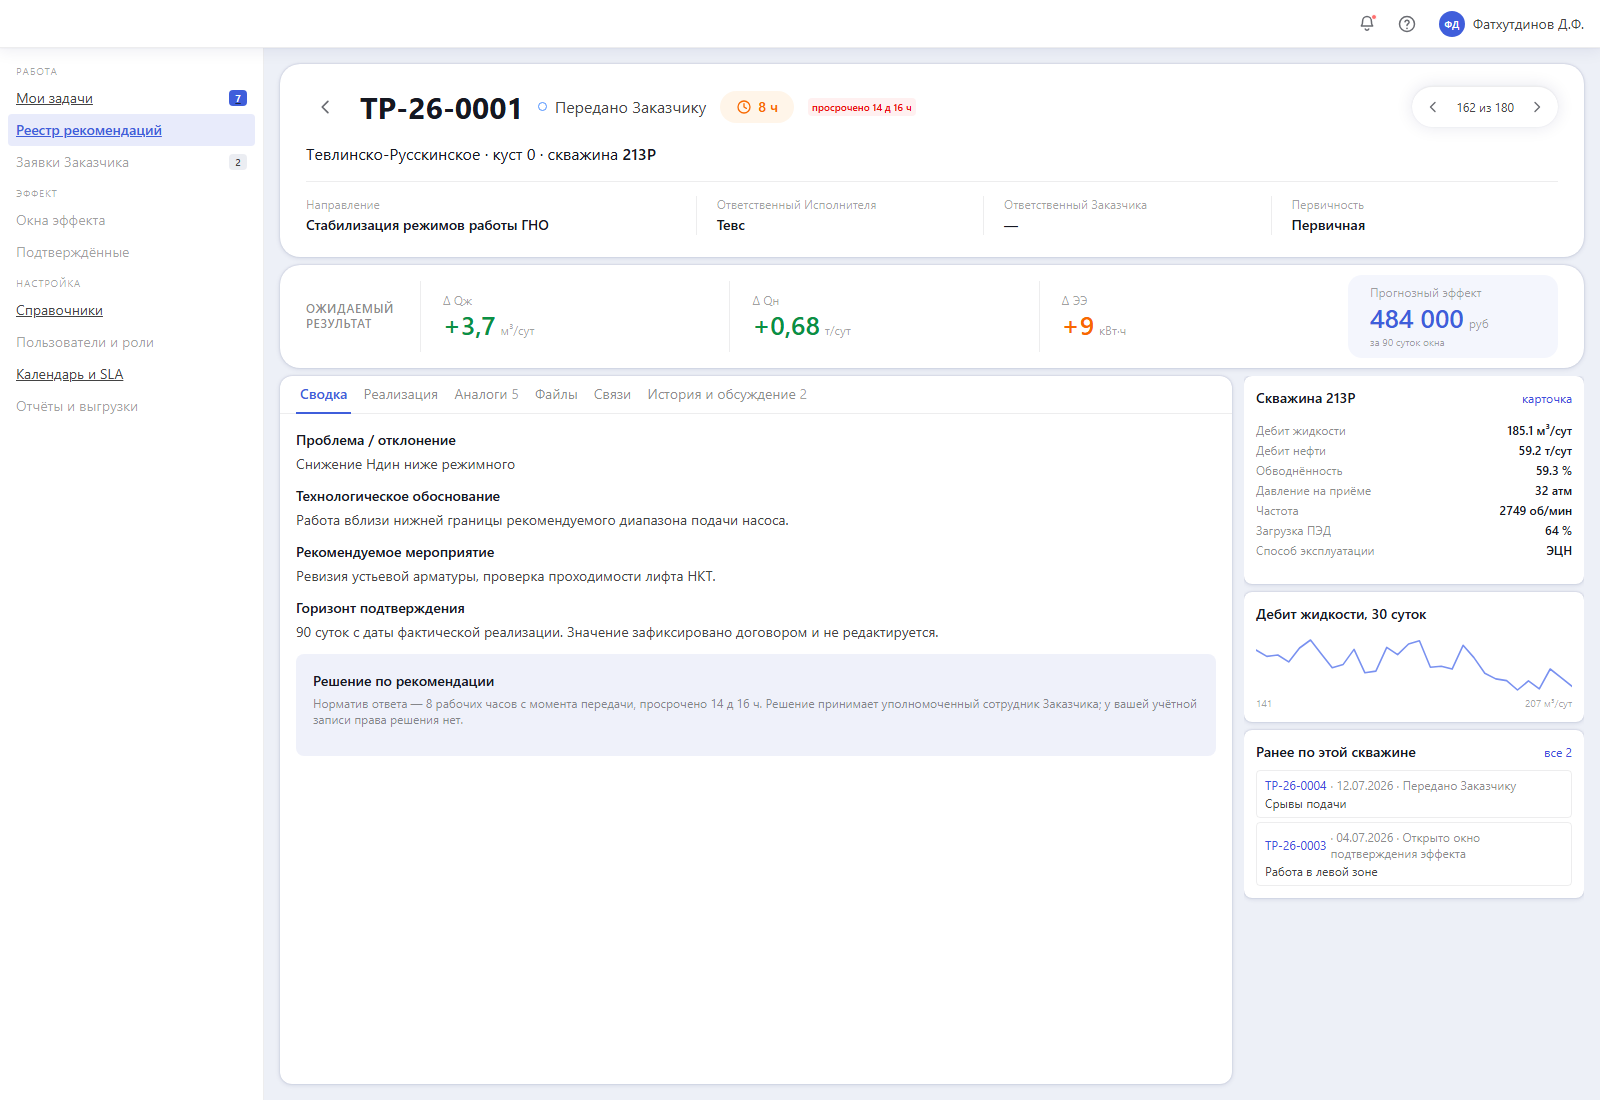
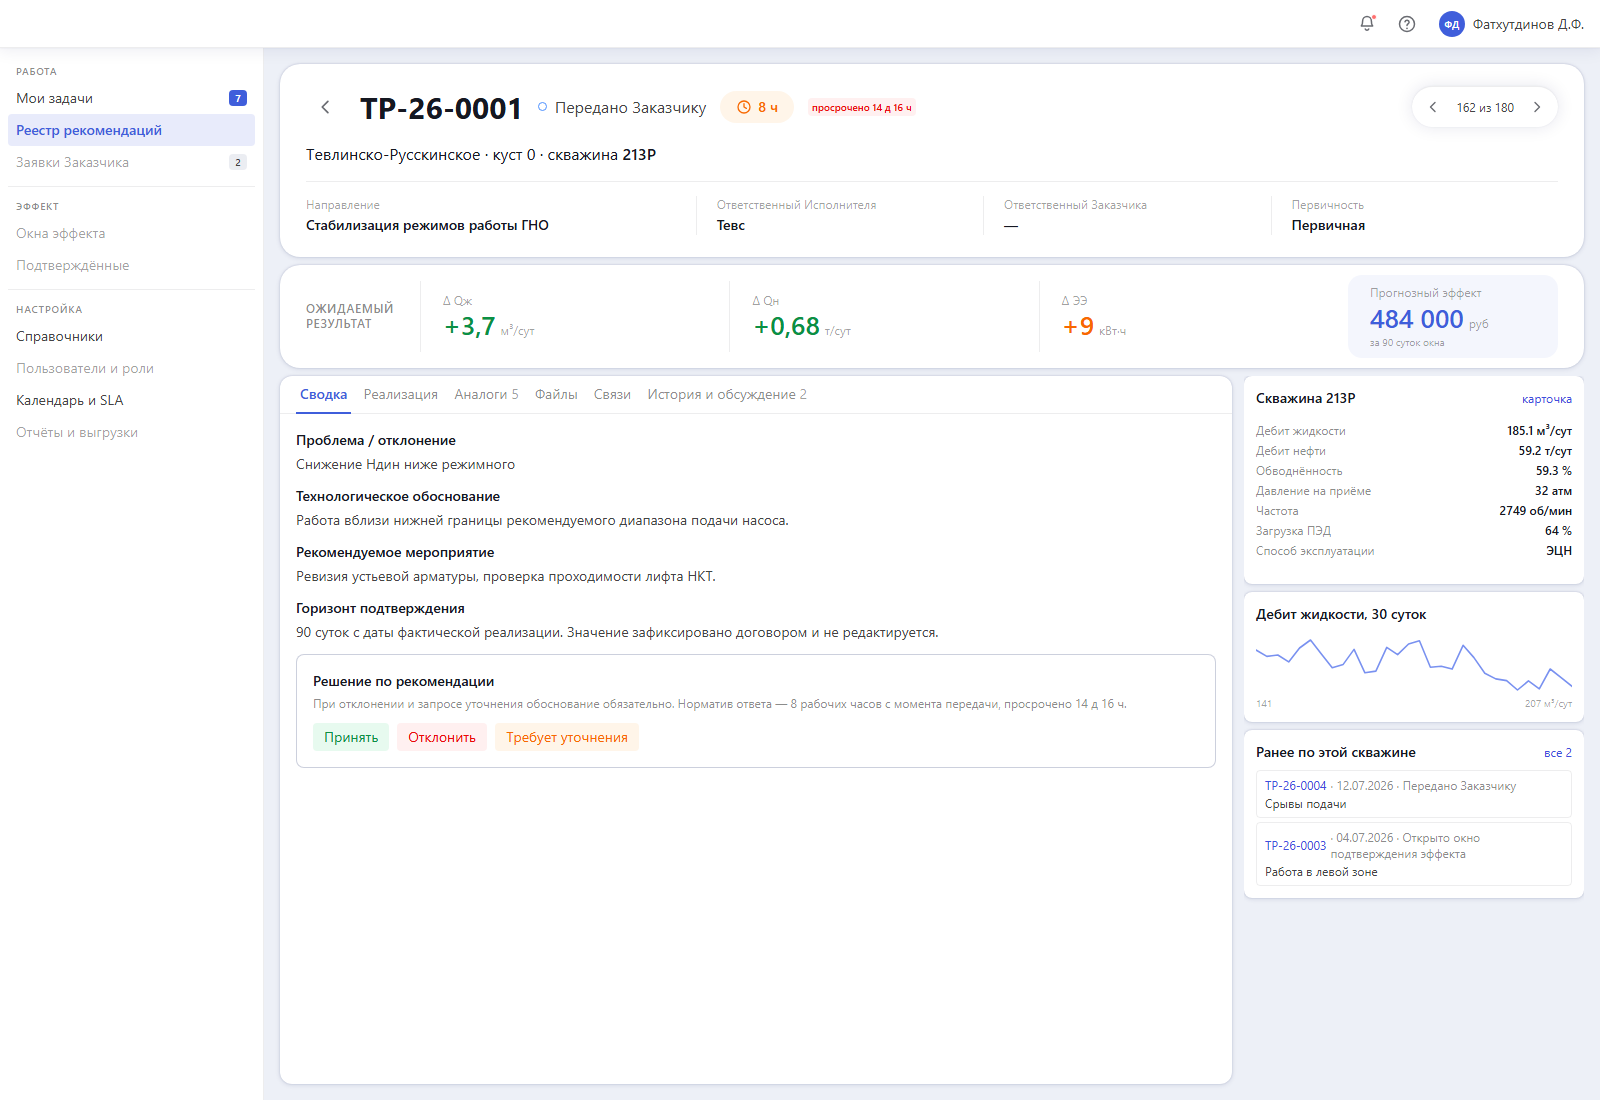
Заголовки групп меню читаются как заголовки, ссылки без подчёркивания
Пункты меню стали ссылками ради переходов между экранами — и приехали
подчёркнутыми: меню читалось как список ссылок в тексте. Подчёркивание снято
у .navitem, как раньше у .btn.

«Работа», «Эффект», «Настройка» в боковом меню и «Справочники модуля»,
«Системные справочники», «Данные ВМАП» на экране справочников набирались
бледно-серым в один вес с обычным текстом и перестали читаться как деление
списка. Теперь у них цвет третьего уровня, полужирное начертание и линия
сверху: группа отделяется от предыдущей, а не просто подписывается.
У первой группы линии нет — делить сверху нечего.

Карточка по умолчанию открывается от лица руководителя Заказчика, а не
эксперта Исполнителя. Право решения принадлежит Заказчику, и с ролью
Исполнителя кнопок решения не было бы вовсе — демонстрация упиралась бы
в необходимость дописывать роль в адрес. Ролям Исполнителя признак
canDecide проставлен явно: он выдаёт рекомендацию, а не принимает по ней
решение.

Changed region(s): [[0.1875, 0.6182, 0.75, 0.68], [0.0, 0.2782, 0.0938, 0.4018], [0.0, 0.1855, 0.0938, 0.2473]]

diff --git a/макет/registry.css b/макет/registry.css
@@ -82,13 +82,21 @@ body.is-resizing { cursor: col-resize; user-select: none; }
   overflow-y: auto;
 }
 
+/* Заголовок группы меню — это заголовок, а не подпись: он делит пункты на
+   «Работа», «Эффект» и «Настройка», и на бледно-сером его переставали читать
+   как деление. Отсюда цвет обычного текста, полужирное начертание и линия
+   сверху: группа отделяется от предыдущей, а не просто подписывается. */
 .sidenav__section {
-  font: var(--font-weight-text) var(--font-size-text-caption) / var(--line-height-text-caption) var(--font-family-text);
+  font: var(--font-weight-subtitle) var(--font-size-text-caption) / var(--line-height-text-caption) var(--font-family-text);
   letter-spacing: var(--letter-spacing-text-caption);
   text-transform: uppercase;
-  color: var(--text-quaternary);
-  padding: var(--group-padding-s) var(--item-padding-horizontal-s) var(--item-padding-vertical-xs);
+  color: var(--text-tertiary);
+  padding: var(--group-padding-m) var(--item-padding-horizontal-s) var(--item-padding-vertical-xs);
+  margin-top: var(--group-gap-s);
+  border-top: 1px solid var(--border-divider-light);
 }
+/* У первой группы линии нет: делить сверху нечего. */
+.sidenav__section:first-child { margin-top: 0; padding-top: var(--group-padding-s); border-top: 0; }
 
 .navitem {
   display: flex; align-items: center; gap: var(--item-gap-horizontal-m);
@@ -97,6 +105,9 @@ body.is-resizing { cursor: col-resize; user-select: none; }
   font: var(--font-weight-text) var(--font-size-text-medium) / var(--line-height-text-medium) var(--font-family-text);
   color: var(--text-secondary);
   cursor: pointer;
+  /* Пункт меню стал ссылкой ради переходов между экранами — без сброса он
+     приезжает подчёркнутым, и меню читается как список ссылок в тексте. */
+  text-decoration: none;
 }
 .navitem:hover { background: var(--state-hover); }
 .navitem.is-active {

diff --git a/макет/refs.css b/макет/refs.css
@@ -27,19 +27,24 @@
   overflow-y: auto;
 }
 
+/* Заголовок класса справочников набирается так же, как заголовки групп в
+   боковом меню: это деление списка, а не сноска к нему. */
 .reflist__section {
-  font: var(--font-weight-text) var(--font-size-text-caption) / var(--line-height-text-caption) var(--font-family-text);
+  font: var(--font-weight-subtitle) var(--font-size-text-caption) / var(--line-height-text-caption) var(--font-family-text);
   letter-spacing: var(--letter-spacing-text-caption);
   text-transform: uppercase;
-  color: var(--text-quaternary);
-  padding: var(--group-padding-s) var(--item-padding-horizontal-s) var(--item-padding-vertical-2xs);
+  color: var(--text-tertiary);
+  padding: var(--group-padding-m) var(--item-padding-horizontal-s) var(--item-padding-vertical-2xs);
+  margin-top: var(--group-gap-s);
+  border-top: 1px solid var(--border-divider-light);
 }
+.reflist__section:first-child { margin-top: 0; padding-top: 0; border-top: 0; }
 
 /* Подпись под заголовком группы объясняет класс справочников один раз, а не
    на каждой строке: почему у одних есть кнопки правки, а у других нет. */
 .reflist__note {
   font: var(--font-weight-text) var(--font-size-text-small) / var(--line-height-text-small) var(--font-family-text);
-  color: var(--text-quaternary);
+  color: var(--text-tertiary);
   padding: 0 var(--item-padding-horizontal-s) var(--item-padding-vertical-s);
 }
 

diff --git a/макет/data.js b/макет/data.js
@@ -170,13 +170,16 @@ const CUSTOMERS = ['Чернышов А.А', 'Гадаятов Ф.Г', 'Иван
    Роли Исполнителя отбирают по ответственному Исполнителя: у эксперта АКЭ
    рекомендация именная, он её выдал и он же ведёт её по телеметрии. */
 const USERS = [
+  /* Право решения — про решение Заказчика по рекомендации, поэтому у ролей
+     Исполнителя его нет: он рекомендацию выдаёт, а не принимает. Свои действия
+     у него другие — регистрация, передача, фиксация факта реализации. */
   {
     key: 'expert', label: 'Эксперт АКЭ', who: 'Матросов', side: 'Исполнитель',
-    scope: 'свои рекомендации', zone: [], executor: 'Матросов',
+    scope: 'свои рекомендации', zone: [], executor: 'Матросов', canDecide: false,
   },
   {
     key: 'expertLead', label: 'Руководитель АКЭ', who: 'Аливердиев Э.А.', side: 'Исполнитель',
-    scope: 'вся команда экспертов', zone: [],
+    scope: 'вся команда экспертов', zone: [], canDecide: false,
   },
   {
     key: 'engineer', label: 'Инженер Заказчика', who: 'Гадаятов Ф.Г', side: 'Заказчик',

diff --git a/макет/card.js b/макет/card.js
@@ -48,9 +48,15 @@ const prose = (s) => s.replace(/\s+/g, ' ').trim();
 const params = new URLSearchParams(location.search);
 
 /* От чьего имени открыта карточка. Тем же параметром, что в инбоксе и реестре,
-   чтобы переход между экранами не терял роль. По умолчанию — эксперт
-   Исполнителя: карточку чаще всего открывает автор рекомендации. */
-const USER = USERS.find((u) => u.key === params.get('role')) || USERS[0];
+   чтобы переход между экранами не терял роль.
+
+   По умолчанию — руководитель Заказчика, а не эксперт Исполнителя: карточку
+   открывают, чтобы посмотреть весь её функционал, а решение по рекомендации
+   принимает Заказчик. С ролью Исполнителя кнопок решения не было бы вовсе,
+   и демонстрация упиралась бы в необходимость дописать роль в адрес. */
+const USER = USERS.find((u) => u.key === params.get('role'))
+  || USERS.find((u) => u.canDecide && !u.zone.length)
+  || USERS[0];
 
 const askedId = Number(params.get('id'));
 const rec = DATA.find((r) => r.id === askedId)
